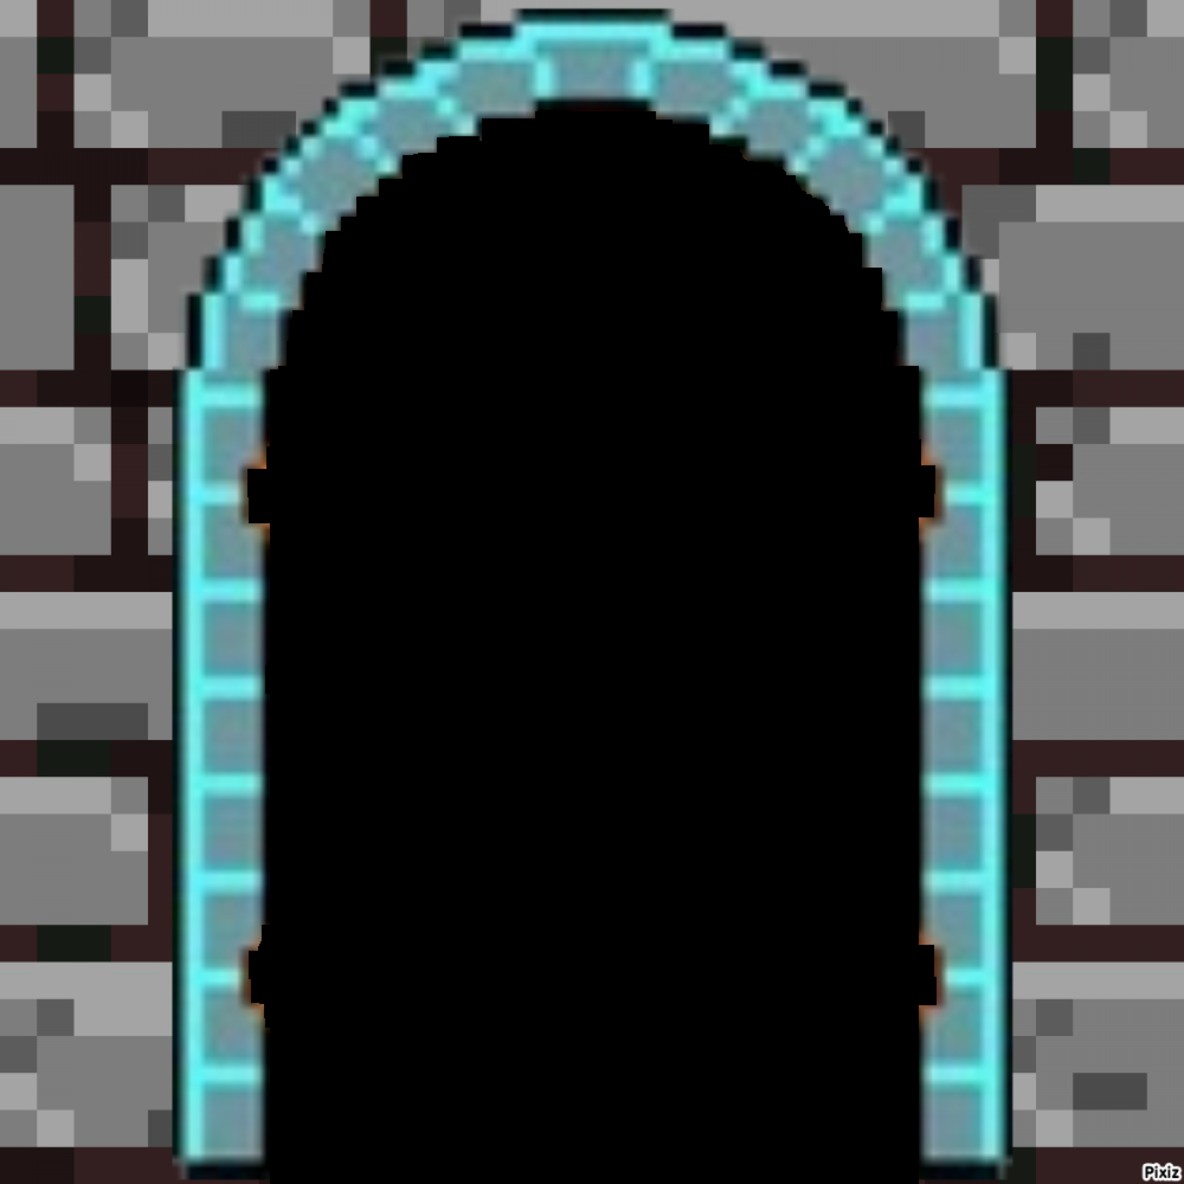
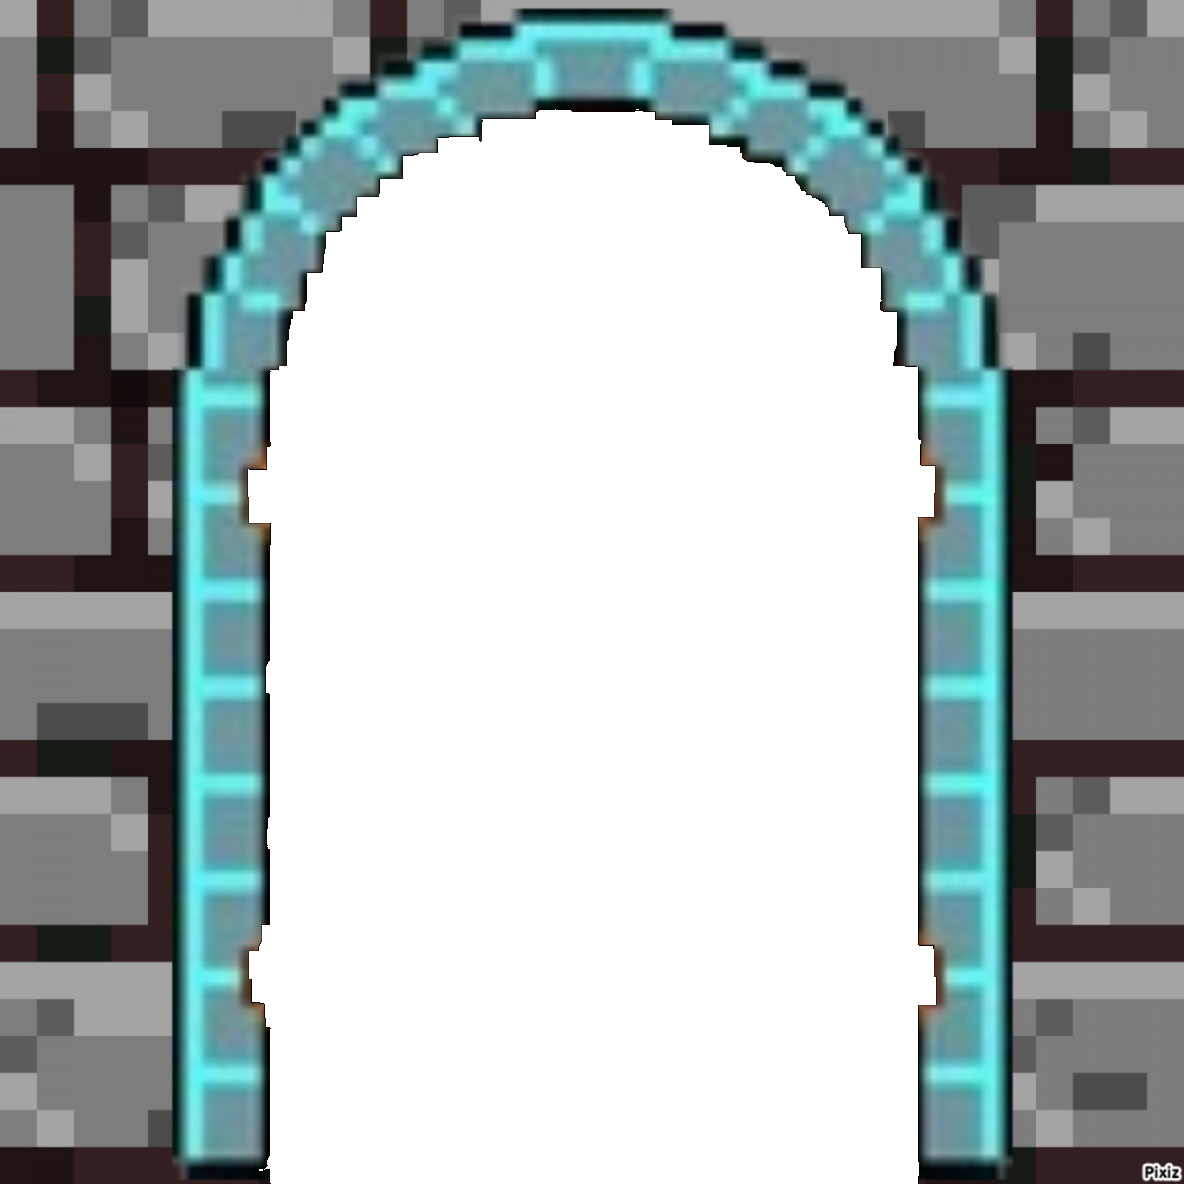
final

diff --git a/jeu.cpp b/jeu.cpp
@@ -33,9 +33,35 @@ Jeu::Jeu() {
 	starttxt.setCharacterSize(40);
 	starttxt.setString("START");
 
+	gameovertxt.setFont(font);
+	gameovertxt.setFillColor(Color::Red);
+	gameovertxt.setPosition(70, 230);
+	gameovertxt.setCharacterSize(50);
+	gameovertxt.setOutlineThickness(10);
+	gameovertxt.setOutlineColor(Color::Black);
+	gameovertxt.setString("GAME OVER");
+
+	backtomenu.setFont(font);
+	backtomenu.setFillColor(Color::White);
+	backtomenu.setPosition(90, 450);
+	backtomenu.setCharacterSize(30);
+	backtomenu.setOutlineThickness(5);
+	backtomenu.setOutlineColor(Color::Black);
+
+	uwon.setFont(font);
+	uwon.setFillColor(Color::Cyan);
+	uwon.setPosition(70, 230);
+	uwon.setCharacterSize(50);
+	uwon.setOutlineThickness(10);
+	uwon.setOutlineColor(Color::Black);
+	uwon.setString("CONGRATS");
+
+
 	if (!backt.loadFromFile("assets/background.png"))
 		return;
 	if (!backtalt.loadFromFile("assets/background_open.png"))
+		return;
+	if (!back_neutral.loadFromFile("assets/back_neutral.png"))
 		return;
 	back.setTexture(backt);
 }
@@ -44,10 +70,13 @@ Jeu::Jeu() {
 void Jeu::generate(int room) {
 	if (room == 1) {
 		ennemis.push_back(new ChaserEnemy(1, 500, 500));
-		ennemis.push_back(new PatrollingEnemy(100, 300, 100, 500, 2, 100, 300));
-		ennemis.push_back(new PatrollingEnemy(100, 500, 500, 500, 2, 100, 500));
-		items.push_back(new Potion((rand()%450)+100, (rand()%750)+100));
-		items.push_back(new Key((rand() % 450) + 100, (rand() % 750) + 100));
+		ennemis.push_back(new PatrollingEnemy(50, 400, 300, 400, 50, 400));
+		ennemis.push_back(new PatrollingEnemy(120, 500, 200, 600, 120, 500));
+		items.push_back(new Potion(60, 310));
+		items.push_back(new Potion(60, 510));
+		items.push_back(new Potion(410, 460));
+		items.push_back(new Key( 60, 710));
+		items.push_back(new Key(160, 60));
 	}
 }
 
@@ -61,15 +90,21 @@ void Jeu::collide(Player* player, sf::RenderWindow& window) {
 		}
 	}
 
+	if (player->getX() < 0 or player->getX() > 600 or player->getY() < 0 or player->getY() > 900) {
+		backMenu.restart();
+		playing = false;
+		win = true;
+	}
+
 	for (int i = 0; i < map.walls.size(); i++) {
 		if (player->getSprite()->getGlobalBounds().intersects(map.walls[i]->wall_rect.getGlobalBounds()) && player->getDirection() == 1) {
 			player->setPosition(player->getX(), map.walls[i]->wall_rect.getPosition().y + 50);
 		}
 		else if (player->getSprite()->getGlobalBounds().intersects(map.walls[i]->wall_rect.getGlobalBounds()) && player->getDirection() == 2) {
-			player->setPosition(map.walls[i]->wall_rect.getPosition().x - 40 , player->getY());
+			player->setPosition(map.walls[i]->wall_rect.getPosition().x - 30 , player->getY());
 		}
 		else if (player->getSprite()->getGlobalBounds().intersects(map.walls[i]->wall_rect.getGlobalBounds()) && player->getDirection() == 3) {
-			player->setPosition(player->getX(), map.walls[i]->wall_rect.getPosition().y - 40);
+			player->setPosition(player->getX(), map.walls[i]->wall_rect.getPosition().y - 33);
 		}
 		else if (player->getSprite()->getGlobalBounds().intersects(map.walls[i]->wall_rect.getGlobalBounds()) && player->getDirection() == 4) {
 			player->setPosition(map.walls[i]->wall_rect.getPosition().x + 50, player->getY());
@@ -128,11 +163,35 @@ void Jeu::collide(Player* player, sf::RenderWindow& window) {
 
 
 	void Jeu::manage(Player * player, RenderWindow & window) {
-		sf::Event event;
-		while (window.pollEvent(event)) {
-			if (event.type == sf::Event::Closed)
-				window.close();
+		
+		if (gameover) {
+			int backMenuInt = backMenu.getElapsedTime().asSeconds();
+			back.setTexture(back_neutral);
+			window.draw(back);
+			window.draw(gameovertxt);
+			backtomenu.setString("Retour au menu \n\n			dans " + std::to_string(5 - backMenuInt));
+			window.draw(backtomenu);
+			if (5 - backMenuInt < 0) {
+				gameover = false;
+				start = true;
+				player->setVie(3);
+			}
 		}
+		
+		if (win) {
+			int backMenuInt = backMenu.getElapsedTime().asSeconds();
+			back.setTexture(back_neutral);
+			window.draw(back);
+			window.draw(uwon);
+			backtomenu.setString("Retour au menu \n\n			dans " + std::to_string(5 - backMenuInt));
+			window.draw(backtomenu);
+			if (5 - backMenuInt < 0) {
+				backMenu.restart();
+				win = false;
+				start = true;
+			}
+		}
+
 		if (start) {
 			window.draw(button);
 			window.draw(back);
@@ -152,18 +211,30 @@ void Jeu::collide(Player* player, sf::RenderWindow& window) {
 		if (playing) {
 			int chronoint = chrono.getElapsedTime().asSeconds();
 			chrono_aff.setString(std::to_string(30 - chronoint));
+			if (30 - chronoint < 0) {
+				playing = false;
+				gameover = true;
+			}
 			int speedupDelay_int = speedupDelay.getElapsedTime().asSeconds();
-			if (player->getSpeedUp() && speedupDelay_int > 2) {
+			if (player->getSpeedUp() && speedupDelay_int > 1) {
 				player->setVitesse((player->getVitesse() / 1.5) + 1);
 				player->setSpeedUp(false);
 			}
 
-			for (int i = 0; i < map.walls.size(); i++) {
-				window.draw(map.walls[i]->wall_rect);
-			}
+			
 			for (int i = 0; i < map.floors.size(); i++) {
 				window.draw(map.floors[i]->floor_rect);
 			}
+			
+
+			for (int i = 0; i < items.size(); i++) {
+				items[i]->update(0);
+				items[i]->draw(window);
+			}
+
+			
+			collide(player, window);
+			player->draw(window);
 			for (int i = 0; i < map.doors.size(); i++) {
 				if (map.doors[i]->open) {
 					map.doors[i]->door_t.loadFromFile("assets/door_open.png");
@@ -171,12 +242,9 @@ void Jeu::collide(Player* player, sf::RenderWindow& window) {
 				}
 				window.draw(map.doors[i]->door_rect);
 			}
-
-			for (int i = 0; i < items.size(); i++) {
-				items[i]->update(0);
-				items[i]->draw(window);
+			for (int i = 0; i < map.walls.size(); i++) {
+				window.draw(map.walls[i]->wall_rect);
 			}
-
 			for (int i = 0; i < ennemis.size(); i++) {
 
 				if (ennemis[i]->getType() == 1) {
@@ -188,8 +256,6 @@ void Jeu::collide(Player* player, sf::RenderWindow& window) {
 				ennemis[i]->update(0);
 				ennemis[i]->draw(window);
 			}
-			collide(player, window);
-			player->draw(window);
 			if (player->getVie() == 3) {
 				window.draw(coeur1);
 				window.draw(coeur2);
@@ -203,7 +269,9 @@ void Jeu::collide(Player* player, sf::RenderWindow& window) {
 				window.draw(coeur1);
 			}
 			else {
-				window.close();
+				backMenu.restart();
+				playing = false;
+				gameover = true;
 			}
 			window.draw(chrono_aff);
 		}

diff --git a/player.cpp b/player.cpp
@@ -87,12 +87,8 @@ void Player::movePlayer() {
 			animate.restart();
 		}
 	}
-	else if (direction == 1) {
-		if (!player_t.loadFromFile("assets/player_neutral_up.png")) {
-			return;
-		}
-	}
-	if (Keyboard::isKeyPressed(Keyboard::Right)) {
+	
+	else if (Keyboard::isKeyPressed(Keyboard::Right)) {
 		x += vitesse;
 		direction = 2;
 		if (i2 > 4) i2 = 1;
@@ -104,13 +100,9 @@ void Player::movePlayer() {
 			animate.restart();
 		}
 	}
-	else if (direction == 2) {
-		if (!player_t.loadFromFile("assets/player_neutral_right.png")) {
-			return;
-		}
-	}
+	
 
-	if (Keyboard::isKeyPressed(Keyboard::Down)) {
+	else if (Keyboard::isKeyPressed(Keyboard::Down)) {
 		y+= vitesse;
 		direction = 3;
 		if (i3 > 4) i3 = 1;
@@ -122,13 +114,9 @@ void Player::movePlayer() {
 			animate.restart();
 		}
 	}
-	else if (direction == 3) {
-		if (!player_t.loadFromFile("assets/player_neutral_down.png")) {
-			return;
-		}
-	}
+	
 
-	if (Keyboard::isKeyPressed(Keyboard::Left)) {
+	else if (Keyboard::isKeyPressed(Keyboard::Left)) {
 		x -= vitesse;
 		direction = 4;
 		if (i4 > 4) i4 = 1;
@@ -141,6 +129,26 @@ void Player::movePlayer() {
 		}
 		
 	}
+
+
+	else if (direction == 1) {
+		if (!player_t.loadFromFile("assets/player_neutral_up.png")) {
+			return;
+		}
+	}
+
+	else if (direction == 2) {
+		if (!player_t.loadFromFile("assets/player_neutral_right.png")) {
+			return;
+		}
+	}
+
+	else if (direction == 3) {
+		if (!player_t.loadFromFile("assets/player_neutral_down.png")) {
+			return;
+		}
+	}
+
 	else if (direction == 4) {
 		if (!player_t.loadFromFile("assets/player_neutral_left.png")) {
 			return;

diff --git a/chaserEnemy.cpp b/chaserEnemy.cpp
@@ -1,6 +1,6 @@
 #include "chaserEnemy.h"
 
-ChaserEnemy::ChaserEnemy(int d, int x, int y) : Ennemi(2, 2, d, x, y, 1){
+ChaserEnemy::ChaserEnemy(int t, int x, int y) : Ennemi(2, 2, x, y, 1){
 	if (!ennemi_t.loadFromFile("assets/bat_neutral_down.png")) {
 		return;
 	}
@@ -16,7 +16,7 @@ void ChaserEnemy::move_Enemy(int x_player, int y_player){
 
 	if (magnitude > 0) {
 		distance /= magnitude;
-		chaserPos += distance * float(vitesse);
+		chaserPos += distance * (float(vitesse));
 		x = chaserPos.x;
 		y = chaserPos.y;
 	}

diff --git a/jeu.h b/jeu.h
@@ -18,20 +18,26 @@ public:
 	bool playing = false;
 	bool start = true;
 	bool gameover = false;
-	bool win = true;
+	bool win = false;
 	Clock chrono;
 	Clock hitDelay;
 	Clock speedupDelay;
+	Clock backMenu;
 	Texture coeur;
 	Texture backt;
 	Texture backtalt;
+	Texture back_neutral;
 	Sprite coeur1;
 	Sprite coeur2;
 	Sprite coeur3;
 	Sprite back;
 	Text chrono_aff;
 	Text title;
+	Text gameovertxt;
+	Text backtomenu;
+	Text uwon;
 	Text starttxt;
+
 	RectangleShape button;
 	Font font;
 	Map map;

diff --git a/ennemis.cpp b/ennemis.cpp
@@ -1,6 +1,6 @@
 #include "ennemis.h"
 
-Ennemi::Ennemi(int vie, int v, int d, int x, int y, int t) :vie(vie), vitesse(v), direction(d), x(x), y(y), type(t) {}
+Ennemi::Ennemi(int vie, int v,  int x, int y, int t) :vie(vie), vitesse(v), x(x), y(y), type(t) {}
 
 int Ennemi::getType() {
 	return type;
@@ -15,9 +15,6 @@ int Ennemi::getVie() {
 }
 int Ennemi::getVitesse() {
 	return vitesse;
-}
-int Ennemi::getDirection() {
-	return direction;
 }
 int Ennemi::getX() {
 	return x;

diff --git a/ennemis.h b/ennemis.h
@@ -13,7 +13,6 @@ protected:
 	int type;
 	int vie;
 	int vitesse;
-	int direction;
 	int x;
 	int y;
 	Vector2f position = Vector2f(float(x), float(y));
@@ -21,13 +20,12 @@ protected:
 	Texture ennemi_t;
 public:
 
-	Ennemi(int vie, int v, int d, int x, int y, int t);
+	Ennemi(int vie, int v,  int x, int y, int t);
 
 	int getType();
 	Vector2f getPosition();
 	int getVie();
 	int getVitesse();
-	int getDirection();
 	int getX();
 	int getY();
 	Sprite* getSprite();

diff --git a/patrollingEnemy.cpp b/patrollingEnemy.cpp
@@ -1,7 +1,7 @@
 #include "patrollingEnemy.h"
 
 
-PatrollingEnemy::PatrollingEnemy(int xd, int yd, int xa, int ya, int d, int x, int y) : xd(xd), yd(yd), xa(xa), ya(ya), Ennemi(5, 2, d, x, y, 2){
+PatrollingEnemy::PatrollingEnemy(int xd, int yd, int xa, int ya, int x, int y) : xd(xd), yd(yd), xa(xa), ya(ya), Ennemi(5, 2, x, y, 2){
 	if (!ennemi_t.loadFromFile("assets/skeleton_neutral_down.png")) {
 		return;
 	}

diff --git a/patrollingEnemy.h b/patrollingEnemy.h
@@ -12,7 +12,7 @@ public:
 
 	int xd, yd, xa, ya;
 
-	PatrollingEnemy(int xd, int yd, int xa, int ya, int d, int x, int y);
+	PatrollingEnemy(int xd, int yd, int xa, int ya, int x, int y);
 	void move_Enemy();
 	void move_Enemy(int x_player, int y_player);
 };

diff --git a/chaserEnemy.h b/chaserEnemy.h
@@ -6,7 +6,7 @@
 
 class ChaserEnemy : public Ennemi {
 public:
-	ChaserEnemy(int d, int x, int y);
+	ChaserEnemy(int t, int x, int y);
 	void move_Enemy(int x_player, int y_player);
 	void move_Enemy();
 };

diff --git a/main.cpp b/main.cpp
@@ -14,7 +14,7 @@ int main() {
 
 	RenderWindow window(VideoMode(600, 900), "Escape the Dungeon");
     
-    Player player(3,3,0,100,100);
+    Player player(3,4,0,50,50);
     jeu.generate(1);
     
 
